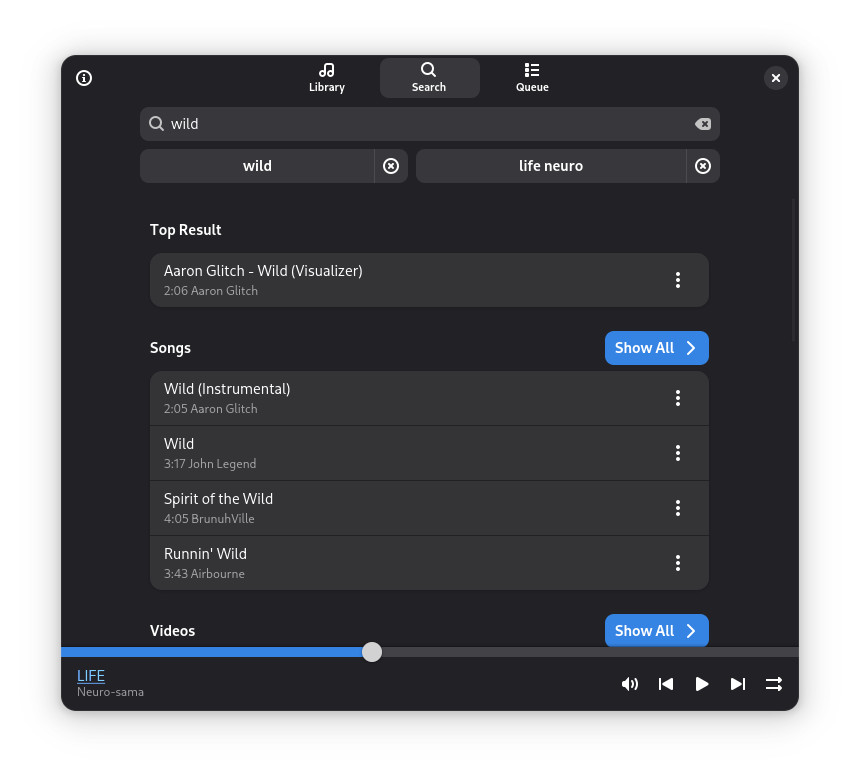
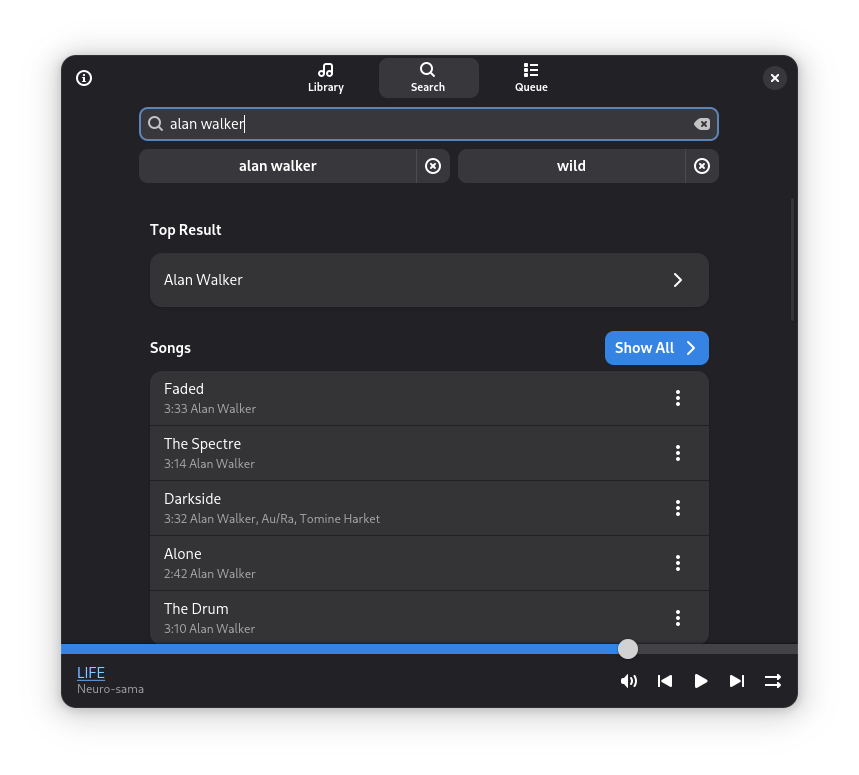
Release v3.3.0

diff --git a/source/monophony/__init__.py b/source/monophony/__init__.py
@@ -1,2 +1,2 @@
-__version__ = '3.2.0'
+__version__ = '3.3.0'
 APP_ID = 'io.gitlab.zehkira.Monophony'
